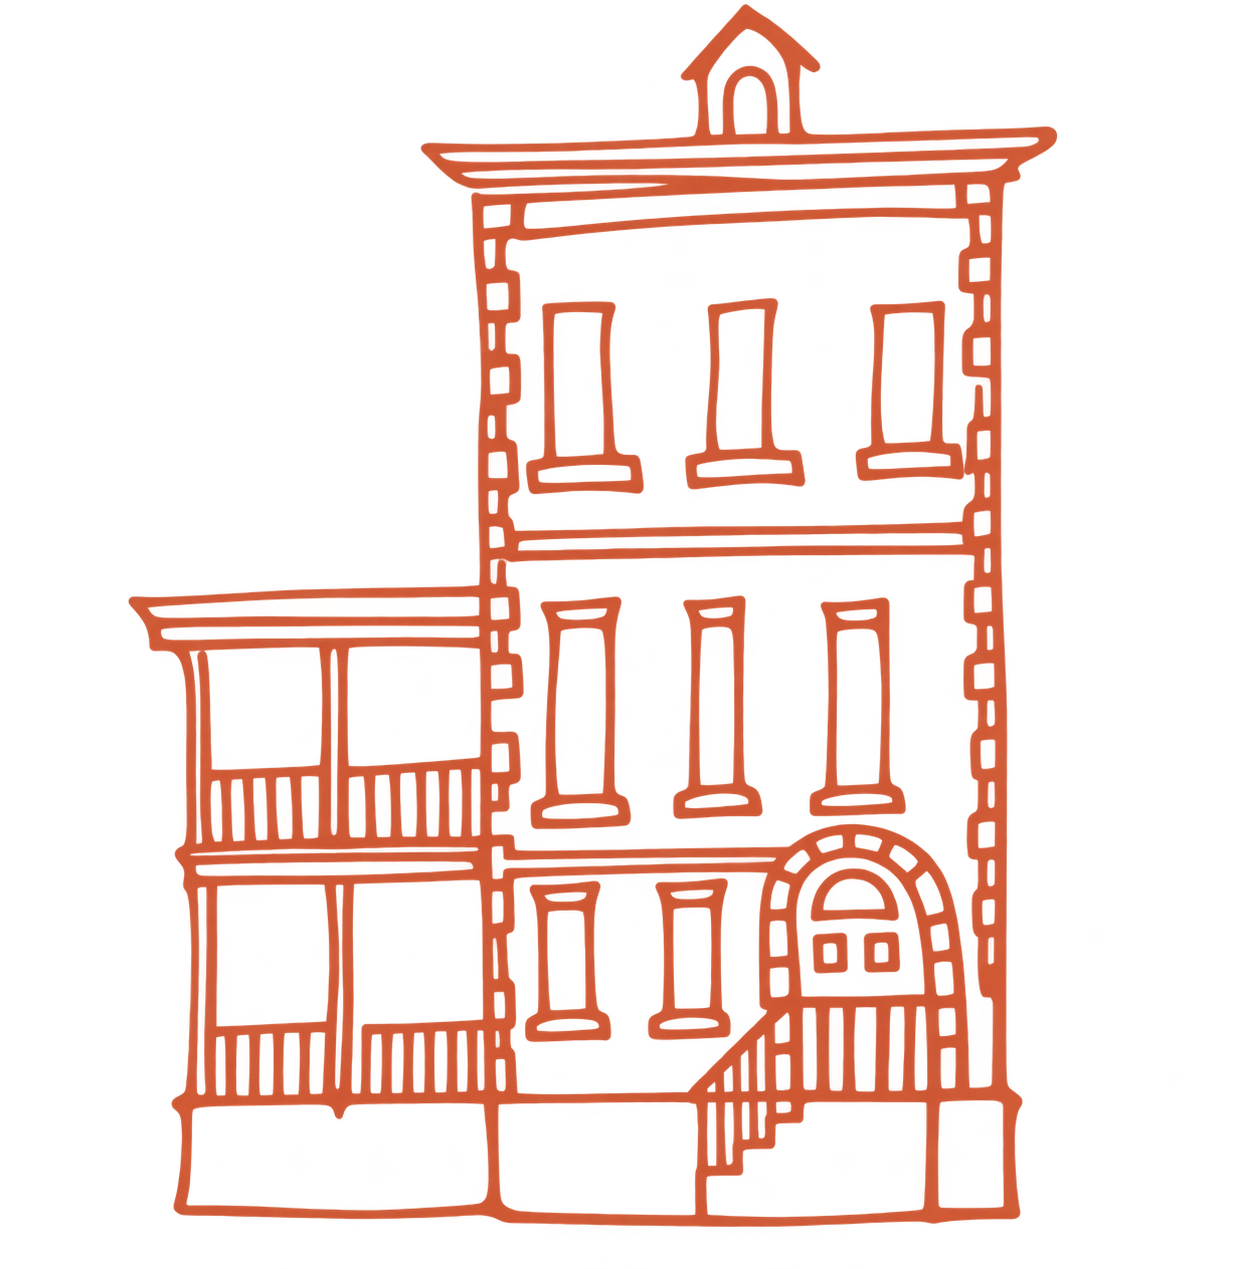
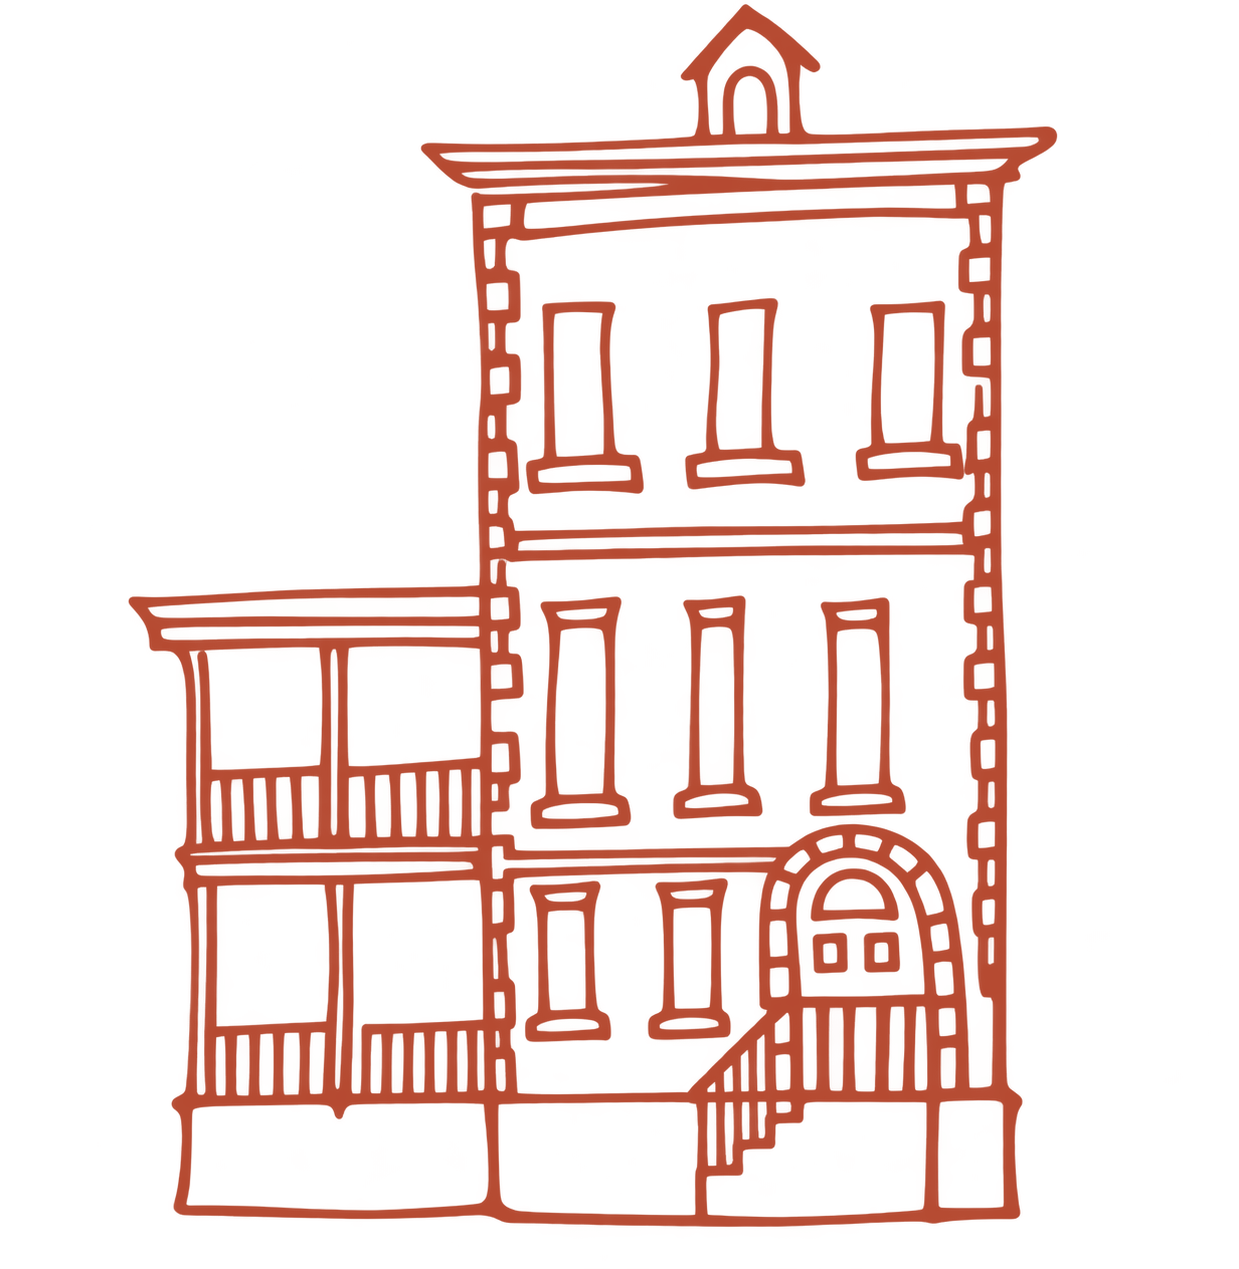
Paperwhisper initials, save-the-date home card, Things to Do additions, RSVP hidden
Home card restacked to match the save-the-date: house, names on one line in
Paperwhisper, date and location in Antique Press. Paperwhisper initials on
every capitalised heading word, with RSVP set whole. House drawing recoloured
to the site terracotta. Timeline diamonds centred on the spine. Footer names
removed. Nav widened to keep all tabs on one line. Activities renamed Things
to Do with Ellis Creek Fish Camp, Sullivan's Island Beach and the Battery
added. Dress code wording made gender neutral. RSVP tab hidden until the menu
is set; the section and its code remain in place behind data-disabled.

diff --git a/index.html b/index.html
@@ -144,6 +144,16 @@
 
         .svg-defs { position: absolute; width: 0; height: 0; overflow: hidden; }
 
+        /* Every capitalised word in a heading opens with a Paperwhisper initial,
+           as the names do. The spans are added by a small script at load. */
+        .wi {
+            font-family: var(--font-script);
+            font-style: normal;
+            font-size: 1.18em;
+        }
+        /* Paperwhisper's T crossbar overhangs; tuck the next letters under it. */
+        .wi-t { margin-right: -0.04em; }
+
         /* --- 1. The monogram. Grace's hand-drawn G&T with the olive sprig,
                the crest of the suite. --- */
         .monogram {
@@ -151,7 +161,6 @@
             margin: 0 auto;
             height: auto;
         }
-        .monogram--hero { width: min(150px, 36vw); margin-bottom: 12px; }
         .monogram--gate { width: 96px; margin-bottom: 8px; }
         .monogram--footer { width: 72px; margin: 0 auto 14px; opacity: .92; }
 
@@ -167,7 +176,7 @@
             z-index: 1;
             background: var(--cream);
             border: 1px solid var(--terracotta-22);
-            padding: clamp(28px, 5vw, 44px) clamp(20px, 5vw, 56px);
+            padding: clamp(20px, 3.5vw, 28px) clamp(20px, 5vw, 56px);
             text-align: center;
         }
 
@@ -177,7 +186,7 @@
             margin: 0 auto;
             height: auto;
         }
-        .house--hero    { width: min(190px, 46vw); }
+        .house--hero    { width: min(230px, 50vw); }
         .house--section { width: 104px; opacity: .9; }
 
         /* --- 3. The rule --- */
@@ -281,15 +290,16 @@
         }
 
         .nav-links {
-            max-width: var(--measure);
+            max-width: 960px;
             margin: 0 auto;
             padding: 16px var(--gutter);
             display: flex;
             justify-content: center;
             flex-wrap: wrap;
-            gap: 4px 28px;
+            gap: 4px 24px;
         }
         .nav-links a {
+            white-space: nowrap;
             color: var(--terracotta);
             text-decoration: none;
             padding: 6px 0;
@@ -357,7 +367,7 @@
 
         .hero {
             max-width: none;
-            padding: clamp(20px, 3vw, 32px) var(--gutter) clamp(32px, 5vw, 48px);
+            padding: clamp(16px, 2.5vw, 24px) var(--gutter) clamp(20px, 3vw, 28px);
         }
         .hero .std-frame {
             max-width: calc(var(--measure) + 120px);
@@ -365,29 +375,41 @@
         }
         .hero-date,
         .hero-location {
+            font-family: var(--font-display);
+            font-style: italic;
+            font-size: clamp(15px, 2vw, 19px);
             color: var(--terracotta);
             margin: 0;
         }
-        .hero-date { margin-bottom: 12px; }
-        .hero h1 { line-height: 1.02; font-size: clamp(48px, 8vw, 72px); }
-        .hero-ampersand {
+        .hero h1 {
+            font-family: var(--font-script);
+            font-style: normal;
+            line-height: 1.1;
+            font-size: clamp(48px, 10vw, 96px);
+            letter-spacing: 0.02em;
+        }
+        /* Paperwhisper's T carries a long crossbar flourish that the font counts
+           as width; pull the rest of the name back under it. */
+        .hero-cap-t { margin-right: -0.18em; }
+        .hero-amp {
             font-family: var(--font-script);
             font-style: normal;
             font-weight: 400;
-            font-size: clamp(30px, 5vw, 42px);
-            color: var(--terracotta-70);
-            margin: 2px 0;
+            font-size: 1.05em;
+            color: var(--terracotta);
+            margin: 0 0.04em;
         }
-        .hero .house { margin: 16px auto 12px; }
-        .hero-location { margin-top: 12px; }
+        .hero .house { margin: 0 auto 28px; }
+        .hero-date { margin-top: 24px; }
+        .hero-location { margin-top: 8px; }
 
         .countdown {
             display: flex;
             justify-content: center;
             flex-wrap: wrap;
             gap: 30px;
-            margin-top: 22px;
-            padding-top: 18px;
+            margin-top: 16px;
+            padding-top: 14px;
             border-top: 1px solid var(--terracotta-22);
         }
         .countdown-unit { min-width: 62px; }
@@ -427,22 +449,25 @@
         .timeline-item:last-child { padding-bottom: 0; }
 
         /* The diamond sits on the spine where the branch leaves it. */
+        /* The marker's origin sits on the exact centre of the 1px spine and the
+           1px branch; the diamond is then centred on that origin. */
         .timeline-marker {
             position: absolute;
-            left: 50%;
-            top: 10px;
+            left: calc(50% + 1px);
+            top: 10.5px;
             width: 0;
             height: 0;
+            z-index: 2;
         }
         .timeline-dot {
             position: absolute;
-            left: -4px;
-            top: -4px;
-            width: 7px;
-            height: 7px;
+            left: 0;
+            top: 0;
+            width: 9px;
+            height: 9px;
             background: var(--cream);
             border: 1px solid var(--terracotta);
-            transform: rotate(45deg);
+            transform: translate(-50%, -50%) rotate(45deg);
         }
         .events .timeline-dot { background: var(--cream-deep); }
 
@@ -457,8 +482,8 @@
             content: "";
             position: absolute;
             top: 10px;
-            left: 0;
-            width: 30px;
+            left: 9px;
+            width: 24px;
             height: 1px;
             background: var(--terracotta-45);
         }
@@ -468,9 +493,17 @@
             padding-right: 44px;
             text-align: right;
         }
-        .timeline-item:nth-child(odd) .timeline-body::before { left: auto; right: 0; }
+        .timeline-item:nth-child(odd) .timeline-body::before { left: auto; right: 9px; }
 
-        .timeline-time { color: var(--terracotta-70); margin: 0 0 6px; }
+        .timeline-time {
+            font-family: var(--font-display);
+            font-style: italic;
+            font-size: clamp(13px, 1.6vw, 15px);
+            letter-spacing: 0.12em;
+            white-space: nowrap;
+            color: var(--terracotta-70);
+            margin: 0 0 6px;
+        }
         .timeline-body h3 { margin-bottom: 6px; }
         .timeline-place { margin: 0; }
         .timeline-place span { display: block; color: var(--terracotta-70); }
@@ -493,7 +526,7 @@
         @media (max-width: 620px) {
             .timeline::before { left: 4px; }
             .timeline-item { grid-template-columns: 1fr; padding-bottom: 30px; }
-            .timeline-marker { left: 4px; }
+            .timeline-marker { left: 5px; }
             .timeline-item .timeline-body,
             .timeline-item:nth-child(odd) .timeline-body {
                 grid-column: 1;
@@ -501,8 +534,8 @@
                 padding-right: 0;
                 text-align: left;
             }
-            .timeline-item:nth-child(odd) .timeline-body::before { left: 0; right: auto; }
-            .timeline-body::before { width: 22px; }
+            .timeline-item:nth-child(odd) .timeline-body::before { left: 9px; right: auto; }
+            .timeline-body::before { width: 18px; }
         }
 
         /* ==========================================================================
@@ -763,11 +796,12 @@
             border-top: 1px solid var(--terracotta-22);
         }
         .footer-inner { padding: 40px var(--gutter) 36px; }
-        footer h2 { margin-bottom: 6px; }
         footer p {
+            font-family: var(--font-display);
+            font-style: italic;
             text-transform: uppercase;
             letter-spacing: var(--track-caps);
-            font-size: 12px;
+            font-size: 16px;
             color: var(--terracotta-70);
             margin: 0;
         }
@@ -898,22 +932,21 @@
             <a href="#home">Home</a>
             <a href="#events">Events</a>
             <a href="#travel">Travel</a>
-            <a href="#activities">Activities</a>
+            <a href="#activities">Things to Do</a>
             <a href="#gallery">Gallery</a>
             <a href="#registry">Registry</a>
-            <a href="#rsvp">RSVP</a>
+            <!-- RSVP opens later in the year, once the menu is set. Restore this link
+                 and remove data-disabled from the #rsvp section to switch it on. -->
+            <!-- <a href="#rsvp">RSVP</a> -->
         </div>
     </nav>
 
     <section id="home" class="hero">
         <div class="std-frame">
             <div class="std-panel">
-                <img class="monogram monogram--hero" src="stationery/monogram.png" alt="" aria-hidden="true">
-                <p class="hero-date">April 24, 2027</p>
-                <h1>Grace</h1>
-                <p class="hero-ampersand">&amp;</p>
-                <h1>Tyler</h1>
                 <img class="house house--hero" src="stationery/gadsden-house.png" alt="" aria-hidden="true">
+                <h1>Grace <span class="hero-amp">&amp;</span> <span class="hero-cap-t">T</span>yler</h1>
+                <p class="hero-date">April 24, 2027</p>
                 <p class="hero-location">Charleston, South Carolina</p>
                 <div class="countdown" id="countdown" aria-label="Time until the ceremony"></div>
             </div>
@@ -938,7 +971,7 @@
                     <p class="timeline-time">Saturday, April 24 • 4:30 PM</p>
                     <h3>Ceremony</h3>
                     <p class="timeline-place">St. Stephen's Episcopal Church <span>67 Anson St, Charleston, SC</span></p>
-                    <p class="timeline-dress"><span>Dress code</span> Garden Formal &mdash; suits with ties for men, full-length or tea-length dresses for women</p>
+                    <p class="timeline-dress"><span>Dress code</span> Garden Formal: suits with ties, full-length or tea-length dresses. Color encouraged.</p>
                 </div>
             </div>
             <div class="timeline-item">
@@ -1007,7 +1040,7 @@
     </section>
 
     <section id="activities" class="events activities">
-        <h2>Activities</h2>
+        <h2>Things to Do</h2>
         <div class="ornament" aria-hidden="true">
             <span></span><img class="ornament-glyph" src="stationery/palmetto-terracotta.png" alt="" aria-hidden="true"><span></span>
         </div>
@@ -1028,9 +1061,23 @@
                 <p>Charleston, SC 29401</p>
             </div>
             <div class="event-card">
+                <h3><a href="https://www.google.com/maps/search/?api=1&query=Ellis+Creek+Fish+Camp+1174+Folly+Road+Charleston+SC" target="_blank" rel="noopener">Ellis Creek Fish Camp</a></h3>
+                <p>1174 Folly Road</p>
+                <p>Charleston, SC 29412</p>
+            </div>
+            <div class="event-card">
                 <h3><a href="https://www.google.com/maps/search/?api=1&query=Poe's+Tavern+2210+Middle+Street+Sullivan's+Island+SC" target="_blank" rel="noopener">Poe's Tavern</a></h3>
                 <p>2210 Middle Street</p>
                 <p>Sullivan's Island, SC 29482</p>
+            </div>
+            <div class="event-card">
+                <h3><a href="https://www.google.com/maps/search/?api=1&query=Sullivan's+Island+Beach+Sullivan's+Island+SC" target="_blank" rel="noopener">Sullivan's Island Beach</a></h3>
+                <p>Sullivan's Island, SC 29482</p>
+            </div>
+            <div class="event-card">
+                <h3><a href="https://www.google.com/maps/search/?api=1&query=The+Battery+East+Battery+Charleston+SC" target="_blank" rel="noopener">Walk the Battery</a></h3>
+                <p>East Battery &amp; Murray Boulevard</p>
+                <p>Charleston, SC 29401</p>
             </div>
         </div>
     </section>
@@ -1072,7 +1119,7 @@
         </div>
     </section>
 
-    <section id="rsvp">
+    <section id="rsvp" data-disabled>
         <h2>RSVP</h2>
         <div id="rsvpScreenLookup">
             <h3 class="rsvp-h">Find your invitation</h3>
@@ -1100,7 +1147,6 @@
     <footer>
         <div class="footer-inner">
             <img class="monogram monogram--footer" src="stationery/monogram.png" alt="" aria-hidden="true">
-            <h2>Grace &amp; Tyler</h2>
             <p>April 24, 2027 &bull; Charleston, SC</p>
         </div>
     </footer>
@@ -1175,7 +1221,8 @@
             }
 
             function showTab(id) {
-                const target = document.getElementById(id) ? id : 'home';
+                const el = document.getElementById(id);
+                const target = (el && !el.hasAttribute('data-disabled')) ? id : 'home';
                 sections.forEach(s => s.classList.toggle('active', s.id === target));
                 navLinks.forEach(a => a.classList.toggle('active', a.getAttribute('href') === '#' + target));
                 closeMenu();
@@ -1222,13 +1269,50 @@
             setInterval(render, 60000);
         })();
 
+        // Script initials: wrap the capital that starts each word of a heading
+        // so it can be set in Paperwhisper. An all-caps word such as RSVP is
+        // wrapped whole. Runs at load and again whenever the RSVP flow renders
+        // new headings.
+        (function() {
+            const HEADINGS = 'h1:not(.hero h1), h2, h3';
+            function wrap(el) {
+                if (el.dataset.wi) return;
+                el.dataset.wi = '1';
+                const walker = document.createTreeWalker(el, NodeFilter.SHOW_TEXT);
+                const nodes = [];
+                while (walker.nextNode()) nodes.push(walker.currentNode);
+                nodes.forEach(node => {
+                    const text = node.nodeValue;
+                    if (!/(^|\s)[A-Z]/.test(text)) return;
+                    const frag = document.createDocumentFragment();
+                    let last = 0;
+                    text.replace(/(^|\s)([A-Z]{2,}|[A-Z])/g, (m, sp, ch, i) => {
+                        frag.appendChild(document.createTextNode(text.slice(last, i) + sp));
+                        const span = document.createElement('span');
+                        span.className = 'wi' + (ch === 'T' ? ' wi-t' : '');
+                        span.textContent = ch;
+                        frag.appendChild(span);
+                        last = i + m.length;
+                    });
+                    frag.appendChild(document.createTextNode(text.slice(last)));
+                    node.parentNode.replaceChild(frag, node);
+                });
+            }
+            function run(root) { (root || document).querySelectorAll(HEADINGS).forEach(wrap); }
+            run();
+            new MutationObserver(muts => muts.forEach(m => m.addedNodes.forEach(n => {
+                if (n.nodeType !== 1) return;
+                if (n.matches && n.matches(HEADINGS)) wrap(n); else run(n);
+            }))).observe(document.body, { childList: true, subtree: true });
+        })();
+
         // Scroll reveals. Targets are chosen to avoid anything that already owns
         // its transform or transition: the hero motifs are mirrored with scaleX,
         // and the cards and gallery tiles animate on hover — revealing those would
         // fight for the same properties. Containers are revealed instead.
         (function() {
             const SELECTOR = [
-                '.monogram--hero', '.hero-date', '.hero h1', '.hero-ampersand', '.hero-location', '.countdown',
+                '.hero h1', '.hero-date', '.hero-location', '.countdown',
                 '#siteContent section h2', '.section-subtitle', '.section-motif', '.ornament',
                 '.timeline-item', '.events-grid', '.travel-card',
                 '.registry-message', '.registry-links', '#rsvpScreenLookup'
